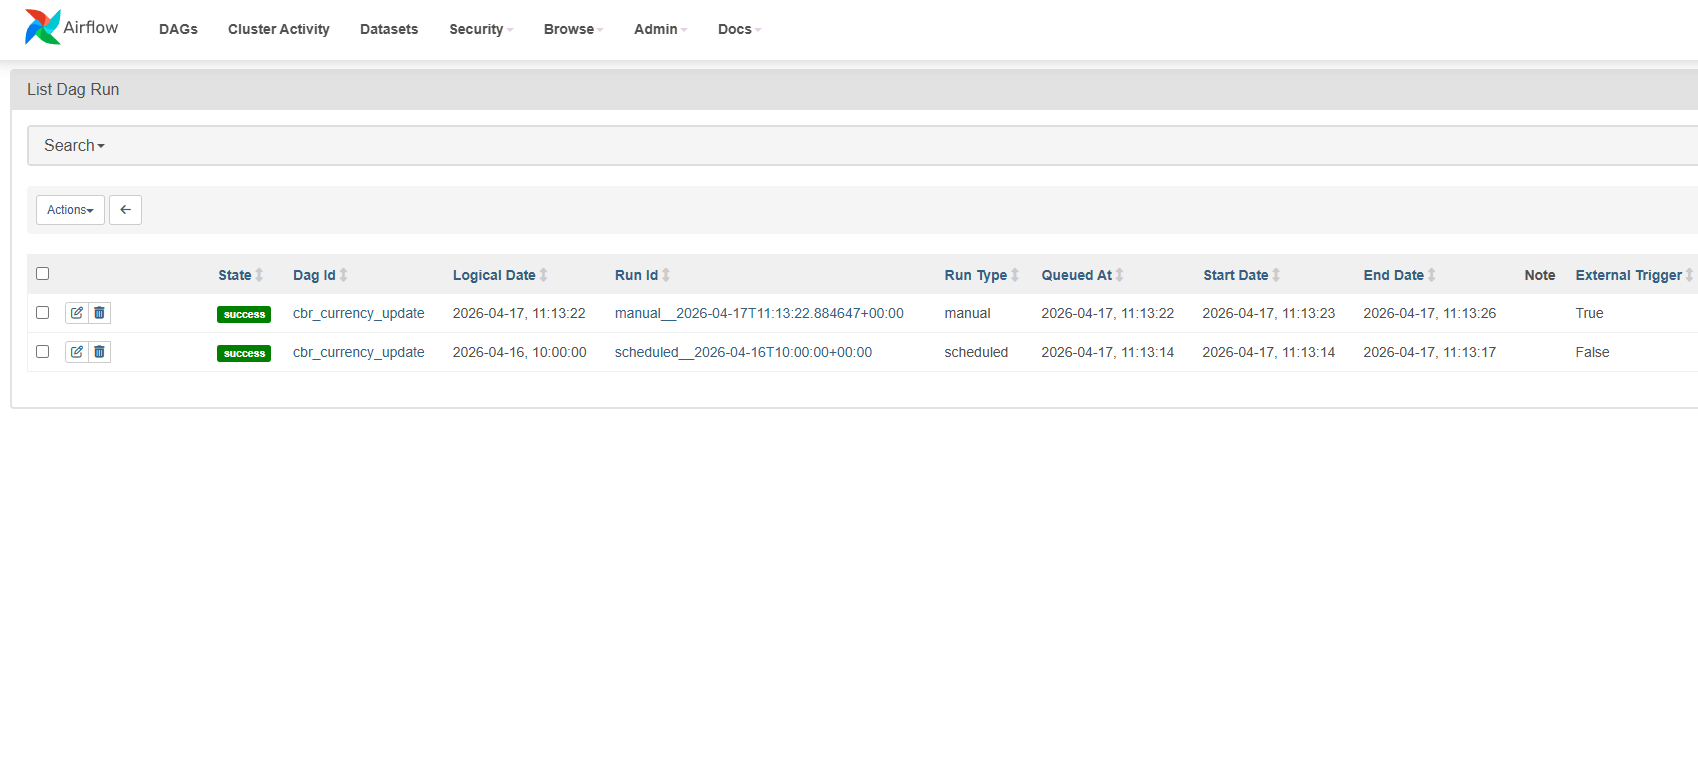
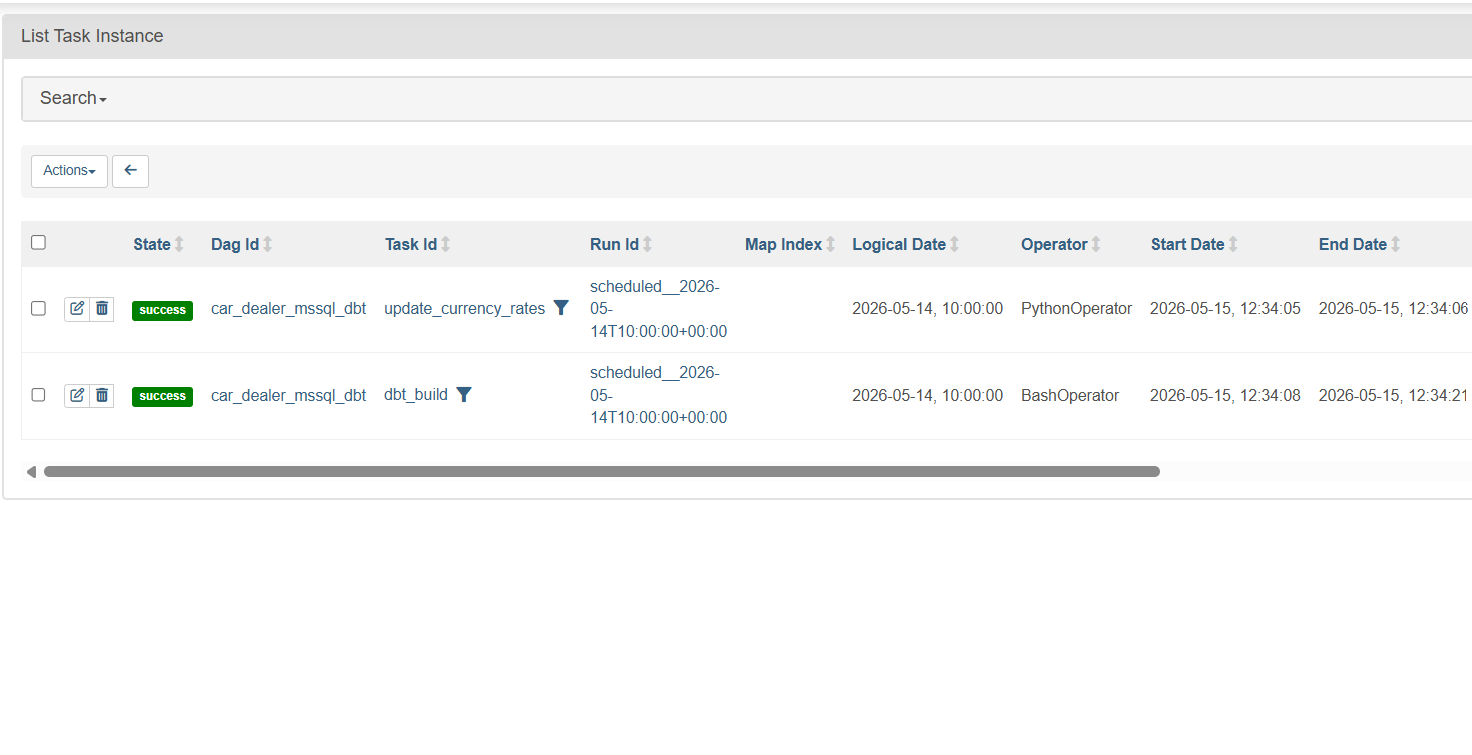
update README and dag png

diff --git a/README.md b/README.md
@@ -91,10 +91,6 @@ Power BI (DAX) и Apache Superset
 
 [http://localhost:8081](http://localhost:8081)
 
-Удобный скрипт на смену пароля:
-
-docker exec airflow_autodealer airflow users reset-password --username admin --password admin
-
 ### Использование
 В проекте `Airflow` отвечает за:
 - ежедневную догрузку актуальных курсов валют с сайта ЦБ РФ;
@@ -135,6 +131,8 @@ DDL-скрипты для таблиц `ClickHouse` лежат в папке:
 - эффективность этапов воронки продаж;
 - таблица эффективности кампаний и ключевых слов.
 
+Дашборд фокусируется на продажах, маржинальной прибыли, `ДРР` и эффективности каналов привлечения.
+
 <img width="1241" height="697" alt="full_screen" src="carDealer_screens/PBI_charts/full_screen.png" />
 
 <img width="1299" height="773" alt="интерактивность" src="carDealer_screens/PBI_charts/интерактивность.png" />
@@ -151,14 +149,12 @@ DDL-скрипты для таблиц `ClickHouse` лежат в папке:
 
 [http://localhost:8089/login/](http://localhost:8089/login/)
 
-#### Доступы
-- login: `admin`
-- password: `P2NVw8PhcsyBdyuDuYGSM_3N_DHD_bdhM5szpe1m`
-
 Используется для:
 - подключения к `ClickHouse`;
 - построения альтернативного BI-дашборда;
 - анализа городов, моделей, групп просмотров страниц и маржинальной прибыли.
+
+В `Superset` собран альтернативный аналитический дашборд с акцентом на исследовательские срезы по городам, моделям и поведенческим группам клиентов.
 
 <img width="1865" height="825" alt="fullscreenSS" src="carDealer_screens/superset_charts/fullscreenSS.png" />
 
@@ -169,6 +165,13 @@ DDL-скрипты для таблиц `ClickHouse` лежат в папке:
 <img width="701" height="541" alt="v_clients_dashbord" src="carDealer_screens/superset_charts/v_clients_dashbord.png" />
 
 <img width="595" height="459" alt="v_sessions_for_clients" src="carDealer_screens/superset_charts/v_sessions_for_clients.png" />
+
+## Результаты проекта
+- собрана end-to-end архитектура: `Excel -> MS SQL -> dbt -> ClickHouse -> Power BI / Superset`;
+- рассчитаны продажи, валовая и маржинальная прибыль, рекламные расходы и `ДРР`;
+- выделены 3 группы трафика: `органика`, `рефералы`, `доп. привлечение`;
+- построены витрины и дашборды для двух BI-инструментов;
+- найдены точки для оптимизации рекламных кампаний и оценки потенциала масштабирования каналов привлечения.
 
 
 ## Docker-сервисы проекта
@@ -187,6 +190,8 @@ DDL-скрипты для таблиц `ClickHouse` лежат в папке:
 ```powershell
 docker compose up -d --build
 ```
+
+Перед запуском убедитесь, что локальный `MS SQL Server` доступен по параметрам, указанным в `docker-compose.yaml`.
 
 ### 2. Загрузить raw-данные из Excel в MS SQL
 ```powershell
